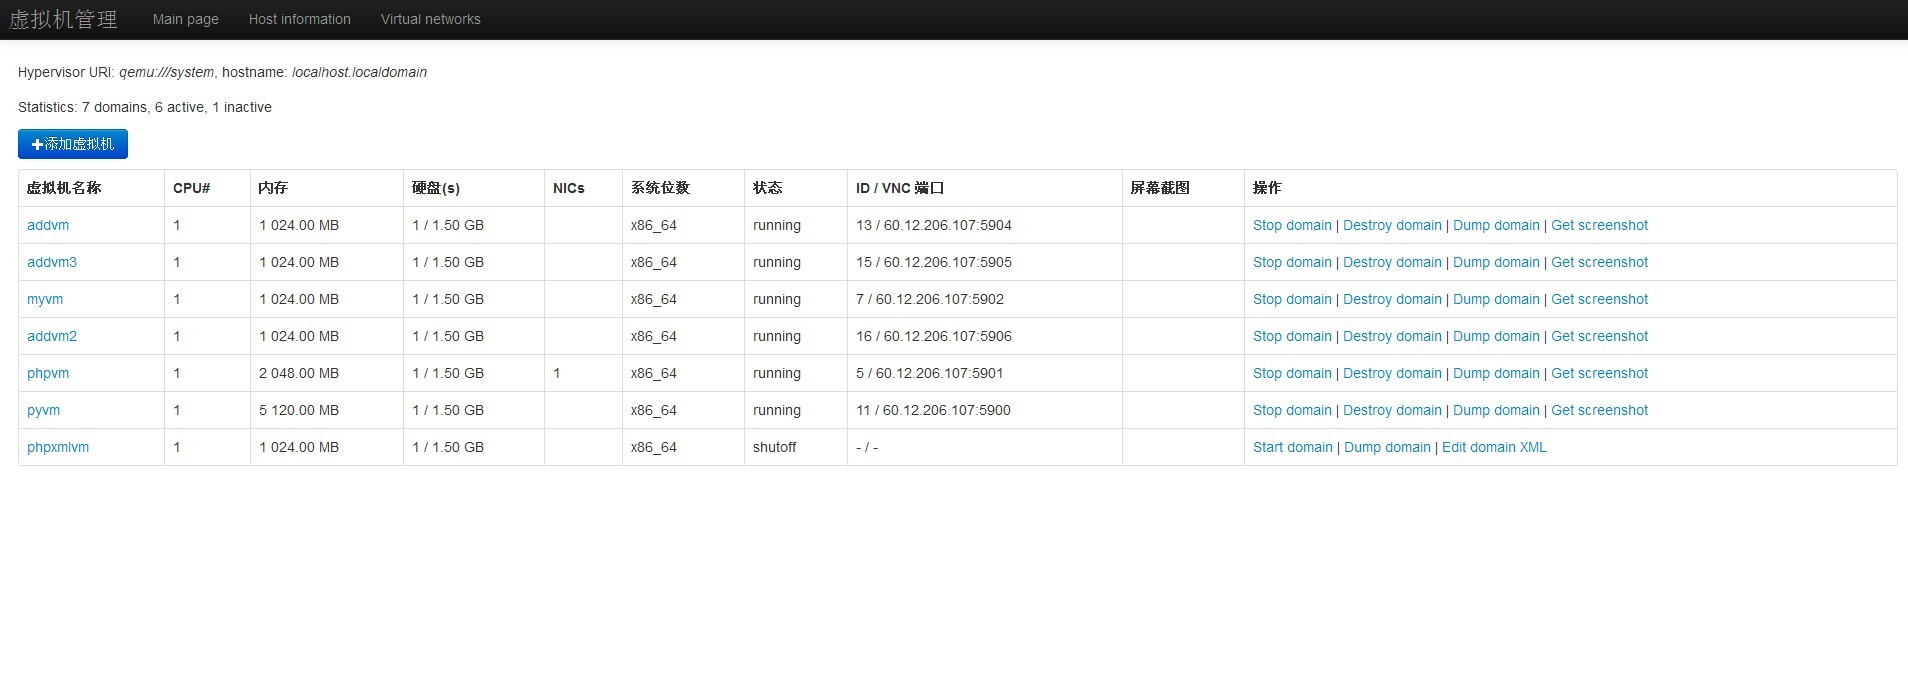
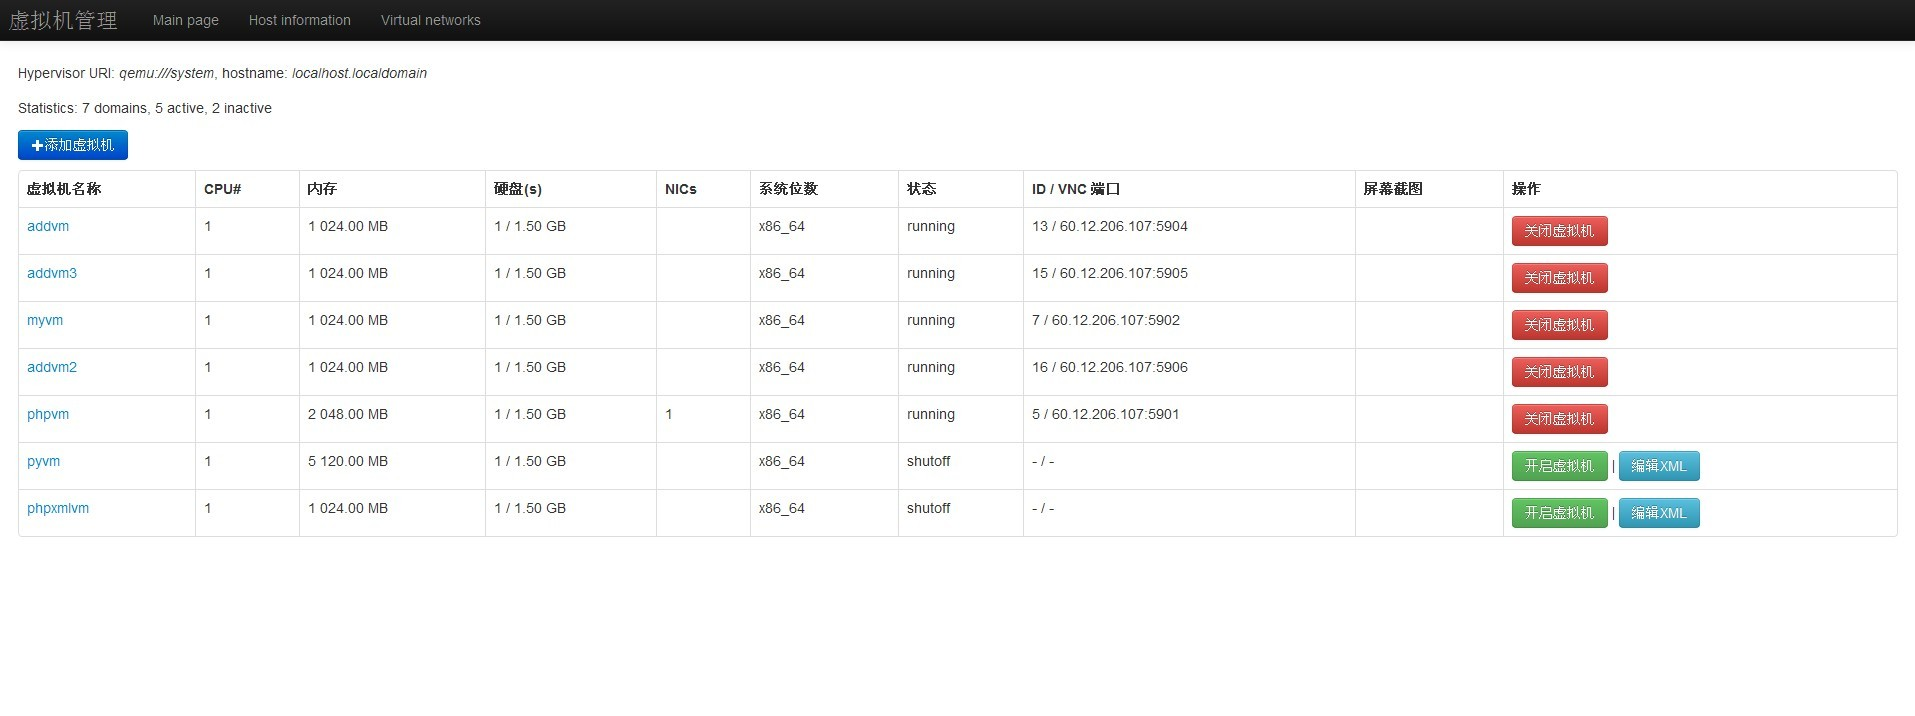
bug
bug

diff --git a/index.php b/index.php
@@ -36,7 +36,6 @@ $tmp = $lv->get_domain_count();
                 <th>操作</th>
             </tr>
             <?php
-
                 $ret = false;
                 if ($action) {
                     $domName = $lv->domain_get_name_by_uuid($_GET['uuid']);
@@ -68,7 +67,6 @@ $tmp = $lv->get_domain_count();
                             $ret = "Domain XML for domain <i>$domName</i>:<br /><br />".htmlentities($xml);
                     }
                 }
-
                 for ($i = 0; $i < sizeof($doms); $i++) {
                     $name = $doms[$i];
                     $res = $lv->get_domain_by_name($name);
@@ -122,19 +120,17 @@ $tmp = $lv->get_domain_count();
                         ";
 
                     if ($lv->domain_is_running($res, $name))
-                        echo "<a href=\"?action=domain-stop&amp;uuid=$uuid\">Stop domain</a> | <a href=\"?action=domain-destroy&amp;uuid=$uuid\">Destroy domain</a> |";
+                        echo "<button class=\"btn btn-danger\" onclick=\"javascript:location.href='index.php?action=domain-destroy&amp;uuid=$uuid'\">关闭虚拟机</button>";
                     else
-                        echo "<a href=\"?action=domain-start&amp;uuid=$uuid\">Start domain</a> |";
+                        echo "<button class=\"btn btn-success\" onclick=\"javascript:location.href='index.php?action=domain-start&amp;uuid=$uuid'\">开启虚拟机</button>";
 
-                    echo "
-                                <a href=\"?action=domain-get-xml&amp;uuid=$uuid\">Dump domain</a>
-                        ";
+                    // echo "<a href=\"?action=domain-get-xml&amp;uuid=$uuid\">Dump domain</a>";
 
                     if (!$lv->domain_is_running($res, $name))
-                        echo "| <a href=\"?action=domain-edit&amp;uuid=$uuid\">Edit domain XML</a>";
-                    else
-                    if ($active > 0)
-                        echo "| <a href=\"?action=get-screenshot&amp;uuid=$uuid\">Get screenshot</a>";
+                        echo " | <button class=\"btn btn-info\" onclick=\"javascript:location.href='index.php?action=domain-edit&amp;uuid=$uuid'\">编辑XML</button>";
+                    // else
+                    // if ($active > 0)
+                    //     echo "| <a href=\"?action=get-screenshot&amp;uuid=$uuid\">Get screenshot</a>";
 
                     echo "</td></tr>";
                 }
